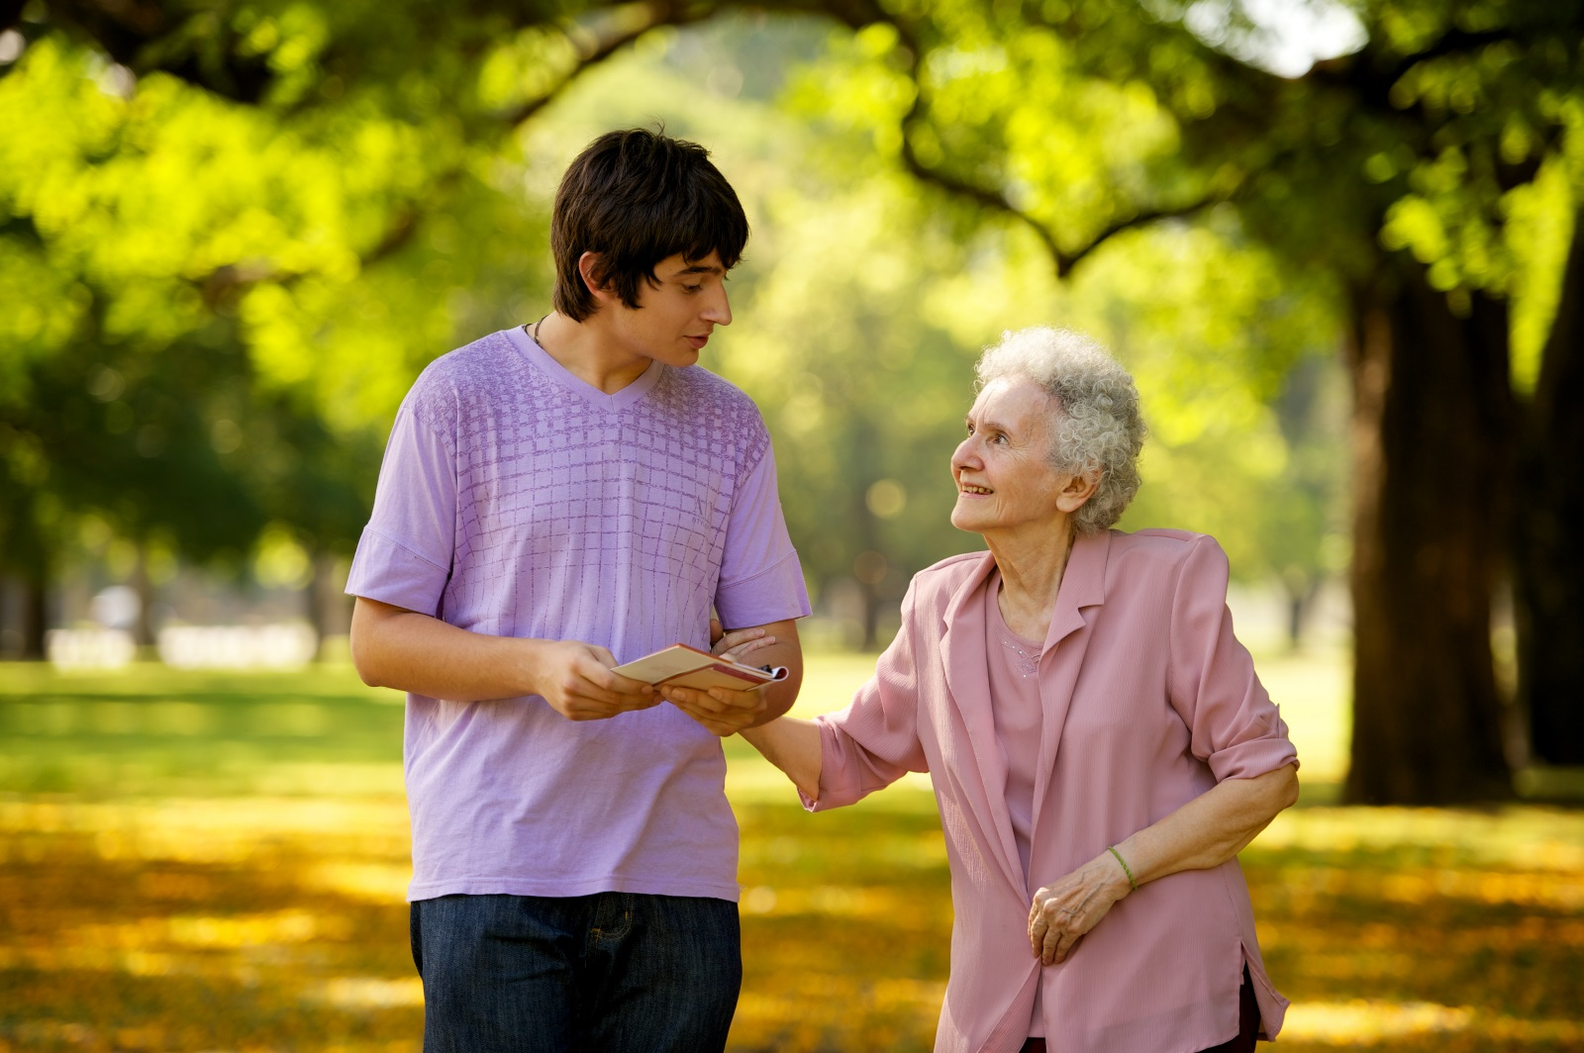
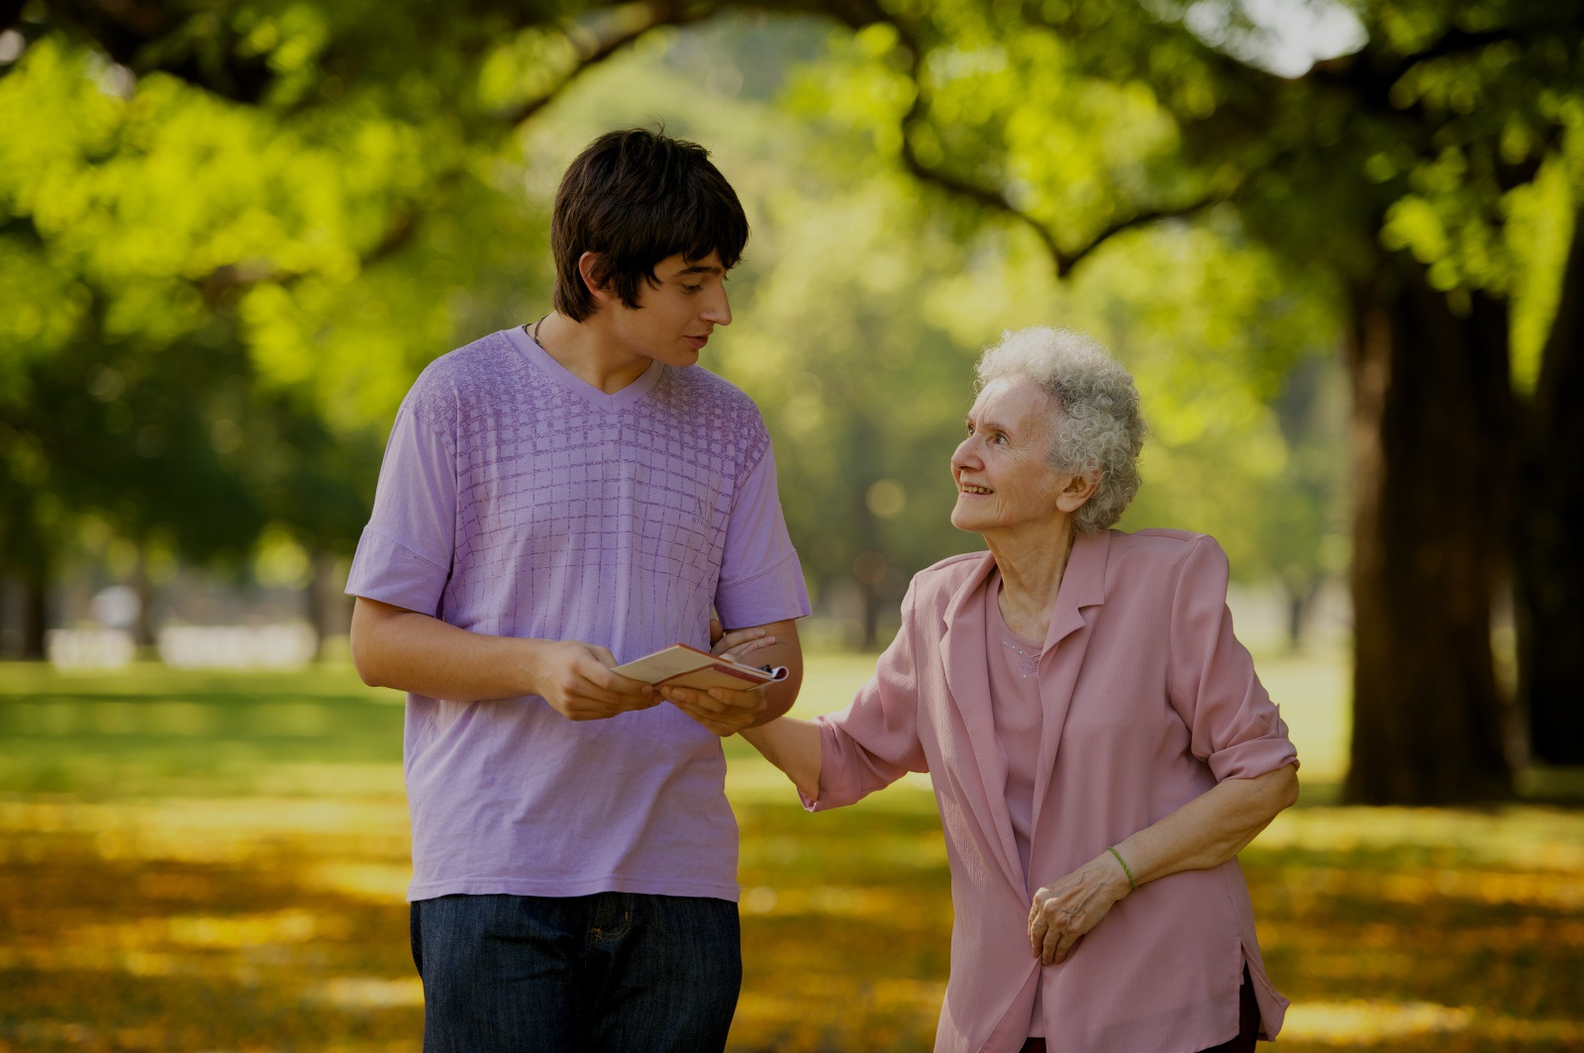
WIP Cambio de iconos, ajuste de texto

diff --git a/docs/index.html b/docs/index.html
@@ -27,10 +27,10 @@
 
             <ul class="sf-menu templateux-menu d-none d-md-block">
               <li class="active">
-                <a href="index.html" class="animsition-link">Home</a>
+                <a href="index.html" class="animsition-link">Home Care Services</a>
               </li>
-              <li><a href="blog-single.html" class="animsition-link">Info</a></li>
-              <li><a href="contact.html" class="animsition-link">Contact</a></li>
+              <li><a href="blog-single.html" class="animsition-link">Rates and Hours</a></li>
+              <li><a href="contact.html" class="animsition-link">Home Care Jobs</a></li>
             </ul> <!-- .templateux-menu -->
 
           </nav> <!-- .site-nav -->
@@ -41,13 +41,13 @@
     </header> <!-- .templateux-navba -->
     
     <div class="templateux-cover" style="background-image: url(images/yold.jpg);">
-      <div class="container d-none">
-        <div class="row align-items-lg-center d">
+      <div class="container">
+        <div class="row align-items-lg-center">
 
           <div class="col-lg-6 order-lg-1">
-            <h1 class="heading mb-3 text-white" data-aos="fade-up">We Are Your Partners in <strong>Human Resource</strong></h1>
-            <p class="lead mb-5 text-white" data-aos="fade-up"  data-aos-delay="100">Far far away, behind the word mountains, far from the countries Vokalia and Consonantia, there live the blind texts.</p>
-            <p data-aos="fade-up" data-aos-delay="200"><a href="#" class="btn btn-primary py-3 px-4 mr-3">Get Started</a> <a href="#" class="text-white">Learn More</a></p>
+            <h1 class="heading mb-3 text-white" data-aos="fade-up">We Are Your Partners in <strong>Human Care</strong></h1>
+            <p class="lead mb-5 text-white d-none" data-aos="fade-up"  data-aos-delay="100">Far far away, behind the word mountains, far from the countries Vokalia and Consonantia, there live the blind texts.</p>
+            <p class="d-none" data-aos="fade-up" data-aos-delay="200"><a href="#" class="btn btn-primary py-3 px-4 mr-3">Get Started</a> <a href="#" class="text-white">Learn More</a></p>
           </div>
           
         </div>
@@ -60,6 +60,7 @@
               <div class="col-md-4">
                 <div class="media block-icon-1 d-block text-left">
                   <div class="icon mb-3">
+                    Get Care Now
                     <img src="images/flaticon/svg/001-consultation.svg" alt="Image" class="img-fluid">
                   </div>
                   <div class="media-body">
@@ -118,11 +119,10 @@
       </div>
     </div> <!-- .templateux-section -->
 
-    <div class="templateux-section">
-
+    <div class="templateux-section py-3">
       <div class="container"  data-aos="fade-up">
         <div class="row">
-          <div class="col-lg-7">
+          <div class="col-lg-7 d-none">
             <h2 class="mb-5">Our Agency</h2>
             <div class="owl-carousel wide-slider">
               <div class="item">
@@ -136,66 +136,41 @@
               </div>
             </div> <!-- .owl-carousel -->
           </div>
-          <div class="col-lg-5 pl-lg-5">
-            <h2 class="mb-5">Why Us?</h2>
+          <div class="col-lg-12 pl-lg-12">
+            <div class="w-100 text-center">
+              <h2 class="mb-5">Why Us?</h2>
+            </div>
             <div class="accordion" id="accordionExample">
-
-
               <div class="accordion-item">
                 <h2 class="mb-0 rounded mb-2">
                   <a href="#" data-toggle="collapse" data-target="#collapseOne" aria-expanded="true" aria-controls="collapseOne">
-                  Provident alias</a>
+                  Become a Home Instead Caregivers</a>
                 </h2>
 
                 <div id="collapseOne" class="collapse show" aria-labelledby="headingOne" data-parent="#accordionExample">
                   <div class="accordion-body">
-                    <p>Lorem ipsum dolor sit amet, <a href="#">Cnsectetur adipisicing</a> elit. Eos quos incidunt, perspiciatis, ad saepe, magnam error adipisci vitae ut provident alias! Odio debitis error ipsum molestiae voluptas accusantium quibusdam animi, soluta explicabo asperiores aliquid, modi natus suscipit deleniti. Corrupti, autem.</p>
+                    <p>As a dedicated CAREGiver, you can help families restore balance, order and peace to their lives and help their senior loved ones remain at home. CAREGiver's benefit from initial and on-going job training, flexible scheduling, and the opportunity to meet new people and develop meaningful relationships. <br><br>
+                      <b>Get a job as a CAREGiver: 888-374-2239</b>
+                    </p>
                   </div>
                 </div>
               </div>
               
               <div class="accordion-item">
                 <h2 class="mb-0 rounded mb-2">
-                  <a href="#" class="collapsed" data-toggle="collapse" data-target="#collapseTwo" aria-expanded="false" aria-controls="collapseTwo">
-                    Debitis ad similique tempore
+                  <a href="#" class="collapsed" data-toggle="collapse" data-target="#collapseTwo" aria-expanded="true" aria-controls="collapseTwo">
+                    Compassionate Senior Care Services
                   </a>
                 </h2>
                 
-                <div id="collapseTwo" class="collapse" aria-labelledby="headingTwo" data-parent="#accordionExample">
+                <div id="collapseTwo" class="collapse show" aria-labelledby="headingTwo" data-parent="#accordionExample">
                   <div class="accordion-body">
-                    <p>Lorem ipsum dolor sit amet, consectetur adipisicing elit. Repellat voluptate animi hic quasi sequi odio, vitae dolorum soluta sapiente debitis ad similique tempore, aliquam quae nam deserunt dicta ullam perspiciatis minima, quam. Quis repellat corporis aperiam, veritatis nemo iure inventore.</p>
+                    <p>Home Instead Senior Care provides trustworthy, kindhearted, senior home care services in your loved one's home. All CAREGivers are thoroughly screened, extensively trained, professional, and reliable. At Home Instead, it's about providing the highest-quality home care services to fit you and your family's needs. <br><br>
+                      <b>Find care now: 888-367-2096</b>
+                    </p>
                   </div>
                 </div>
               </div>
-              
-              <div class="accordion-item">
-                <h2 class="mb-0 rounded mb-2">
-                  <a href="#" class="collapsed" data-toggle="collapse" data-target="#collapseThree" aria-expanded="false" aria-controls="collapseThree">
-                    Lorem ipsum dolor sit amet
-                  </a>
-                </h2>
-                
-                <div id="collapseThree" class="collapse" aria-labelledby="headingThree" data-parent="#accordionExample">
-                  <div class="accordion-body">
-                    <p>Lorem ipsum dolor sit amet, consectetur adipisicing elit. Ipsum et dolorum libero consequuntur facere molestias beatae quod labore quidem ad quasi eius pariatur quae nam quo soluta optio dicta, doloribus ullam fugit nulla! Itaque necessitatibus eum sed quam eos id!</p>
-                  </div>
-                </div>
-              </div>
-              
-              <div class="accordion-item">
-                <h2 class="mb-0 rounded mb-2">
-                  <a href="#" class="collapsed" data-toggle="collapse" data-target="#collapseFour" aria-expanded="false" aria-controls="collapseFour">
-                    Modi natus suscipit
-                  </a>
-                </h2>
-
-                <div id="collapseFour" class="collapse" aria-labelledby="headingFour" data-parent="#accordionExample">
-                  <div class="accordion-body">
-                    <p>Lorem ipsum dolor sit amet, consectetur adipisicing elit. Eos quos incidunt, perspiciatis, ad saepe, magnam error adipisci vitae ut provident alias! Odio debitis error ipsum molestiae voluptas accusantium quibusdam animi, soluta explicabo asperiores aliquid, modi natus suscipit deleniti. Corrupti, autem.</p>
-                  </div>
-                </div>
-              </div>
-              
             </div>
           </div>
         </div>
@@ -311,76 +286,79 @@
     </div> <!-- .container -->
   </div> <!-- .templateux-section -->
 
-  <div class="templateux-section bg-light">
+  <div class="templateux-section">
     <div class="container">
       <div class="row mb-5">
         <div class="col-12 text-center mb-5">
-          <h2>Our Services</h2>
+          <h2>Senior Care Services</h2>
+          <p>There are a variety of services Home Instead Caregivers can provide, including:</p>
         </div>
         <div class="col-md-4 mb-4" data-aos="fade-up">
           <div class="media block-icon-1 d-block text-center">
             <div class="icon mb-3">
-              <img src="images/flaticon/svg/004-gear.svg" alt="Image" class="img-fluid">
+              <img src="images/flaticon/svg/companionship.svg" alt="Image" class="img-fluid">
             </div>
             <div class="media-body">
-              <h3 class="h5 mb-4">Regular Update</h3>
-              <p>A small river named Duden flows by their place and supplies it with the necessary regelialia.</p>
+              <h3 class="h5 mb-4">Companionship and Home Helper</h3>
+              <p>Meal preparation, medication reminders, grocery shopping & errands, light housekeeping, socializing</p>
             </div>
           </div> <!-- .block-icon-1 -->
         </div>
         <div class="col-md-4 mb-4" data-aos="fade-up" data-aos-delay="100">
           <div class="media block-icon-1 d-block text-center">
             <div class="icon mb-3">
-              <img src="images/flaticon/svg/005-conflict.svg" alt="Image" class="img-fluid">
+              <img src="images/flaticon/svg/trust.svg" alt="Image" class="img-fluid">
             </div>
             <div class="media-body">
-              <h3 class="h5 mb-4">Infinite Posibilities</h3>
-              <p>A small river named Duden flows by their place and supplies it with the necessary regelialia.</p>
+              <h3 class="h5 mb-4">Personal Services</h3>
+              <p>Bathing, dressing, incontinence care/toileting, mobility assistance</p>
             </div>
           </div> <!-- .block-icon-1 -->
         </div>
-        <div class="col-md-4 mb-4" data-aos="fade-up" data-aos-delay="200">
-          <div class="media block-icon-1 d-block text-center">
-            <div class="icon mb-3">
-              <img src="images/flaticon/svg/006-meeting.svg" alt="Image" class="img-fluid">
-            </div>
-            <div class="media-body">
-              <h3 class="h5 mb-4">Good Security</h3>
-              <p>A small river named Duden flows by their place and supplies it with the necessary regelialia.</p>
-            </div>
-          </div> <!-- .block-icon-1 -->
-        </div>
+       
 
         <div class="col-md-4 mb-4" data-aos="fade-up" data-aos-delay="300">
           <div class="media block-icon-1 d-block text-center">
             <div class="icon mb-3">
-              <img src="images/flaticon/svg/007-brainstorming.svg" alt="Image" class="img-fluid">
+              <img src="images/flaticon/svg/friendship.svg" alt="Image" class="img-fluid">
             </div>
             <div class="media-body">
-              <h3 class="h5 mb-4">HR Management</h3>
-              <p>A small river named Duden flows by their place and supplies it with the necessary regelialia.</p>
+              <h3 class="h5 mb-4">Transitional Care Services</h3>
+              <p>Transportation prescription pick-up, discharge assistance</p>
             </div>
           </div> <!-- .block-icon-1 -->
         </div>
         <div class="col-md-4 mb-4" data-aos="fade-up" data-aos-delay="400">
           <div class="media block-icon-1 d-block text-center">
             <div class="icon mb-3">
-              <img src="images/flaticon/svg/001-consultation.svg" alt="Image" class="img-fluid">
+              <img src="images/flaticon/svg/love.svg" alt="Image" class="img-fluid">
             </div>
             <div class="media-body">
-              <h3 class="h5 mb-4">Intuitive Thinking</h3>
-              <p>A small river named Duden flows by their place and supplies it with the necessary regelialia.</p>
+              <h3 class="h5 mb-4">Care for Serious Conditions</h3>
+              <p>Observe how conditions affect the senior, recognize changes that may occur, report and record information relevant to care</p>
             </div>
           </div> <!-- .block-icon-1 -->
         </div>
         <div class="col-md-4 mb-4" data-aos="fade-up" data-aos-delay="500">
           <div class="media block-icon-1 d-block text-center">
             <div class="icon mb-3">
-              <img src="images/flaticon/svg/009-brainstorming-2.svg" alt="Image" class="img-fluid">
+              <img src="images/flaticon/svg/medical-symbol.svg" alt="Image" class="img-fluid">
             </div>
             <div class="media-body">
-              <h3 class="h5 mb-4">Play Video</h3>
-              <p>A small river named Duden flows by their place and supplies it with the necessary regelialia.</p>
+              <h3 class="h5 mb-4">Hospice Support</h3>
+              <p>Supplemental support services, respite for family caregivers</p>
+            </div>
+          </div> <!-- .block-icon-1 -->
+        </div>
+
+         <div class="col-md-4 mb-4" data-aos="fade-up" data-aos-delay="200">
+          <div class="media block-icon-1 d-block text-center">
+            <div class="icon mb-3">
+              <img src="images/flaticon/svg/puzzles.svg" alt="Image" class="img-fluid">
+            </div>
+            <div class="media-body">
+              <h3 class="h5 mb-4">Alzheimer's or Other Dementias</h3>
+              <p>Managing behaviors, encouraging engagement, assisting with Activities of Daily Living, keeping seniors safe</p>
             </div>
           </div> <!-- .block-icon-1 -->
         </div>

diff --git a/docs/blog-single.html b/docs/blog-single.html
@@ -27,10 +27,10 @@
 
             <ul class="sf-menu templateux-menu d-none d-md-block">
               <li class="active">
-                <a href="index.html" class="animsition-link">Home</a>
+                <a href="index.html" class="animsition-link">Home Care Services</a>
               </li>
-              <li><a href="blog-single.html" class="animsition-link">Info</a></li>
-              <li><a href="contact.html" class="animsition-link">Contact</a></li>
+              <li><a href="blog-single.html" class="animsition-link">Rates and Hours</a></li>
+              <li><a href="contact.html" class="animsition-link">Home Care Jobs</a></li>
             </ul> <!-- .templateux-menu -->
 
           </nav> <!-- .site-nav -->
@@ -41,13 +41,13 @@
     </header> <!-- .templateux-navba -->
     
     
-    <div class="templateux-cover" style="background-image: url(images/yold.jpg);">
+    <div class="templateux-cover" style="background-image: url(images/care.jpg);">
       <div class="container">
         <div class="row align-items-lg-center">
 
           <div class="col-lg-6 order-lg-1 text-center mx-auto">
-            <h1 class="heading mb-3 text-white" data-aos="fade-up">Blog Single Post</h1>
-            <p class="lead mb-5 text-white" data-aos="fade-up"  data-aos-delay="100">July 3, 2018 &bullet; by <a href="#" class="text-white">John Smith</a></p>
+            <h1 class="heading mb-3 text-white" data-aos="fade-up">Home Care Rates & Hours</h1>
+            <p class="lead mb-5 text-white" data-aos="fade-up"  data-aos-delay="100"><a href="index.html" class="btn btn-primary py-3 px-4 mr-3">Our Care Services</a></p>
           </div>
 
         </div>
@@ -61,20 +61,16 @@
         <div class="row">
 
           <div class="col-md-12">
-            <h2 class="mb-3">World Cup 2018</h2>
+            <h2 class="mb-3">Home Care Rates & Hours</h2>
 
-            <p><img src="images/hero_1.jpg" alt="" class="img-fluid"></p>
-            <p>Lorem ipsum dolor sit amet, consectetur adipisicing elit. Reiciendis, eius mollitia suscipit, quisquam doloremque distinctio perferendis et doloribus unde architecto optio laboriosam porro adipisci sapiente officiis nemo accusamus ad praesentium? Esse minima nisi et. Dolore perferendis, enim praesentium omnis, iste doloremque quia officia optio deserunt molestiae voluptates soluta architecto tempora.</p>
-            <p>Molestiae cupiditate inventore animi, maxime sapiente optio, illo est nemo veritatis repellat sunt doloribus nesciunt! Minima laborum magni reiciendis qui voluptate quisquam voluptatem soluta illo eum ullam incidunt rem assumenda eveniet eaque sequi deleniti tenetur dolore amet fugit perspiciatis ipsa, odit. Nesciunt dolor minima esse vero ut ea, repudiandae suscipit!</p>
-            <h2 class="mb-3 mt-5">Molestiae cupiditate inventore animi, maxime sapiente optio</h2>
-            <p>Temporibus ad error suscipit exercitationem hic molestiae totam obcaecati rerum, eius aut, in. Exercitationem atque quidem tempora maiores ex architecto voluptatum aut officia doloremque. Error dolore voluptas, omnis molestias odio dignissimos culpa ex earum nisi consequatur quos odit quasi repellat qui officiis reiciendis incidunt hic non? Debitis commodi aut, adipisci.</p>
-            <p>Quisquam esse aliquam fuga distinctio, quidem delectus veritatis reiciendis. Nihil explicabo quod, est eos ipsum. Unde aut non tenetur tempore, nisi culpa voluptate maiores officiis quis vel ab consectetur suscipit veritatis nulla quos quia aspernatur perferendis, libero sint. Error, velit, porro. Deserunt minus, quibusdam iste enim veniam, modi rem maiores.</p>
-            <p>
-              <img src="images/slider-1.jpg" alt="" class="img-fluid">
-            </p>
-            <p>Odit voluptatibus, eveniet vel nihil cum ullam dolores laborum, quo velit commodi rerum eum quidem pariatur! Quia fuga iste tenetur, ipsa vel nisi in dolorum consequatur, veritatis porro explicabo soluta commodi libero voluptatem similique id quidem? Blanditiis voluptates aperiam non magni. Reprehenderit nobis odit inventore, quia laboriosam harum excepturi ea.</p>
-            <p>Adipisci vero culpa, eius nobis soluta. Dolore, maxime ullam ipsam quidem, dolor distinctio similique asperiores voluptas enim, exercitationem ratione aut adipisci modi quod quibusdam iusto, voluptates beatae iure nemo itaque laborum. Consequuntur et pariatur totam fuga eligendi vero dolorum provident. Voluptatibus, veritatis. Beatae numquam nam ab voluptatibus culpa, tenetur recusandae!</p>
-            <p>Voluptas dolores dignissimos dolorum temporibus, autem aliquam ducimus at officia adipisci quasi nemo a perspiciatis provident magni laboriosam repudiandae iure iusto commodi debitis est blanditiis alias laborum sint dolore. Dolores, iure, reprehenderit. Error provident, pariatur cupiditate soluta doloremque aut ratione. Harum voluptates mollitia illo minus praesentium, rerum ipsa debitis, inventore?</p>
+            <!-- <p><img src="images/hero_1.jpg" alt="" class="img-fluid"></p> -->
+            <p>Home Instead Senior Care offers affordable in-home care services 24 hours a day, 365 days a year. You’ll work with a care coordinator at your local office to set a care schedule that works best for you and your family. Rates depend on your specific care needs and vary by location. Discounted rates may apply for overnight stays with minimum duration.</p>
+            
+
+            <h2 class="mb-3 mt-5">Insurance Coverage</h2>
+
+            <p>Some insurance policies may cover certain in-home services. Please call now to connect with your local Home Instead Senior Care office, and see if your insurance benefits include this type of coverage.</p>
+            <p>Free in-home consultations and complimentary Caregiver introductions provided.</p>
 
             <div class="tag-widget post-tag-container mb-5 mt-5 d-none">
               <div class="tagcloud">

diff --git a/docs/contact.html b/docs/contact.html
@@ -27,10 +27,10 @@
 
             <ul class="sf-menu templateux-menu d-none d-md-block">
               <li class="active">
-                <a href="index.html" class="animsition-link">Home</a>
+                <a href="index.html" class="animsition-link">Home Care Services</a>
               </li>
-              <li><a href="blog-single.html" class="animsition-link">Info</a></li>
-              <li><a href="contact.html" class="animsition-link">Contact</a></li>
+              <li><a href="blog-single.html" class="animsition-link">Rates and Hours</a></li>
+              <li><a href="contact.html" class="animsition-link">Home Care Jobs</a></li>
             </ul> <!-- .templateux-menu -->
 
           </nav> <!-- .site-nav -->
@@ -40,14 +40,14 @@
       </div> <!-- .container -->
     </header> <!-- .templateux-navba -->
     
-    <div class="templateux-cover" style="background-image: url(images/yold.jpg);">
+    <div class="templateux-cover" style="background-image: url(images/contact.jpg);">
       <div class="container">
         <div class="row align-items-lg-center">
 
           <div class="col-lg-6 order-lg-1 text-center mx-auto">
             <h1 class="heading mb-3 text-white" data-aos="fade-up">Contact us</h1>
-            <p class="lead mb-5 text-white" data-aos="fade-up"  data-aos-delay="100">Far far away, behind the word mountains, far from the countries Vokalia and Consonantia, there live the blind texts.</p>
-            <p data-aos="fade-up" data-aos-delay="200"><a href="#" class="btn btn-primary py-3 px-4 mr-3">Get Started</a> <a href="#" class="text-white">Learn More</a></p>
+            <p class="lead mb-5 text-white" data-aos="fade-up"  data-aos-delay="100">Become a Caregiver</p>
+            <!-- <p data-aos="fade-up" data-aos-delay="200"><a href="#" class="btn btn-primary py-3 px-4 mr-3">Get Started</a> <a href="#" class="text-white">Learn More</a></p> -->
           </div>
           
         </div>
@@ -56,8 +56,12 @@
 
 
 
-    <div class="templateux-section">
+    <div class="templateux-section pt-5">
       <div class="container">
+        <p>As a dedicated CAREGiver, you can help families restore balance, order and peace to their lives and help their senior loved ones remain at home. Home Instead CAREGivers provide a variety of non-medical services, including companionship and home helper services.</p>
+        <p>
+          Home Instead CAREGiver's benefit from initial and on-going job training, flexible scheduling, and the opportunity to meet new people and develop meaningful relationships.
+        </p>
         <div class="row mb-5">
           <div class="col-md-7 pr-md-7 mb-5">
             <form action="#" method="post">
@@ -96,7 +100,7 @@
             <div class="media block-icon-1 d-block text-center">
               <div class="icon mb-3"><span class="ion-ios-email-outline"></span></div>
               <div class="media-body">
-                <h3 class="h5 mb-4">info@templateux.com</h3>
+                <h3 class="h5 mb-4">contact@newhorizonhome.info </h3>
               </div>
             </div> <!-- .block-icon-1 -->
 

diff --git a/docs/css/style.css b/docs/css/style.css
@@ -1364,7 +1364,7 @@ h6 {
     position: relative;
     z-index: -1;
 }
-.templateux-cover:before {
+/*.templateux-cover:before {
     content: "";
     position: absolute;
     background: rgba(0,  0,  0,  0.3);
@@ -1372,7 +1372,7 @@ h6 {
     right: 0;
     top: 0;
     bottom: 0;
-}
+}*/
 .templateux-cover, .templateux-cover .row {
     min-height: 800px;
 }
@@ -1597,7 +1597,7 @@ textarea.form-control {
     background: #fff;
     -webkit-box-shadow: 0 15px 30px 0px rgba(0,  0,  0,  0.1);
     box-shadow: 0 15px 30px 0px rgba(0,  0,  0,  0.1);
-    margin-top: -40pc;
+    margin-top: -45pc;
 }
 .templateux-overlap .block-icon-1 .icon span {
     font-size: 80px;

diff --git a/docs/js/main.js b/docs/js/main.js
@@ -1,6 +1,6 @@
 // AOS
 AOS.init({
-  duration: 1000,
+  duration: 500,
   once: true,
 })
 
